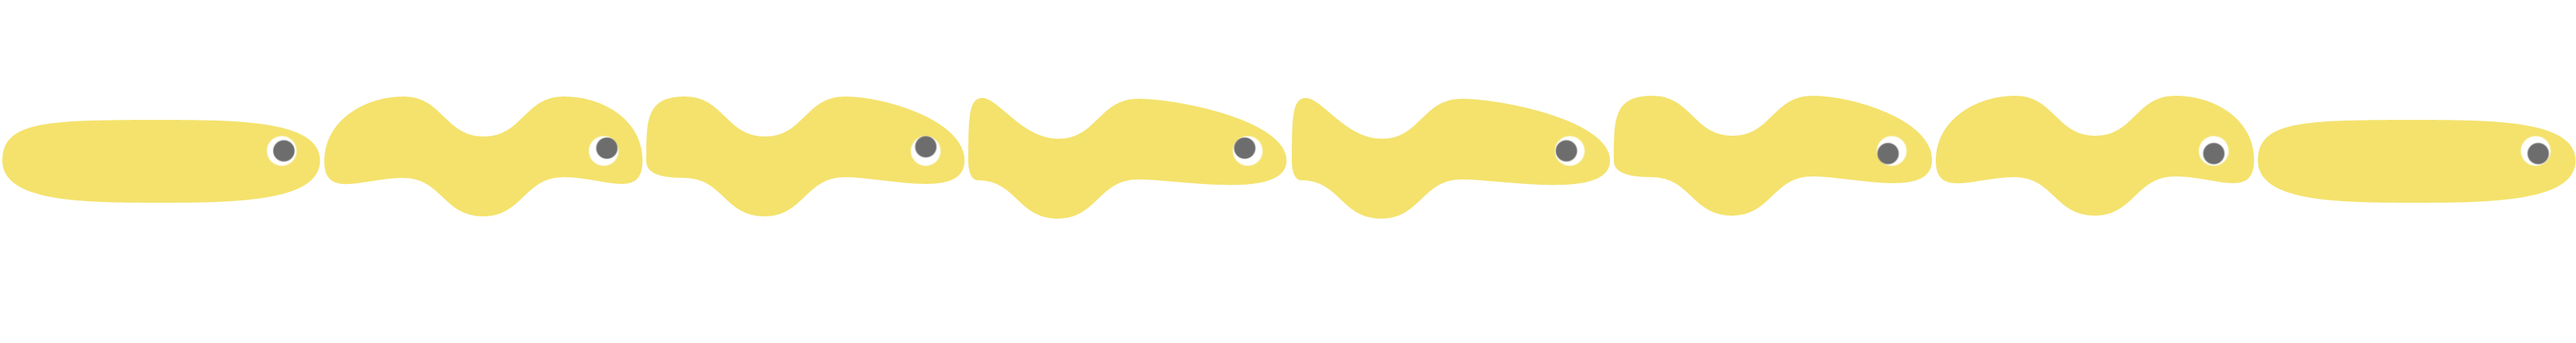
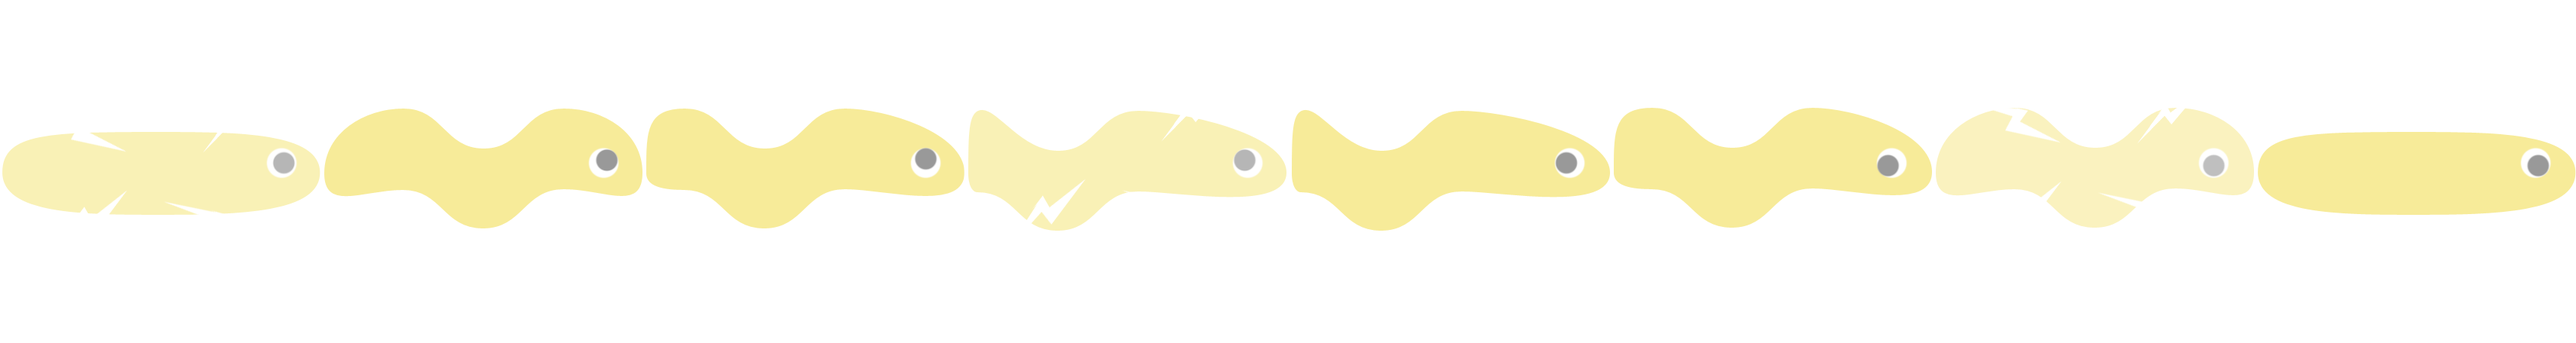
changed squid controls changed electrify sprite sheet

Changed region(s): [[0.0, 0.2769, 1.0, 0.6769]]

diff --git a/main.py b/main.py
@@ -36,8 +36,8 @@ except:
 playZoneWidth = WIDTH - 80
 playZoneHeight = HEIGHT - 180
 playZone = pygame.draw.rect(screen, BLUE, (40, 40, playZoneWidth, playZoneHeight))
-squid = player.Player((playZoneWidth - (426/3) + 80), (playZoneHeight - (455/3) + 80), 426, 455,"Images/SquidWalk.png", "Images/EelWalkUp.png", "Images/EelwalkElectric.png", "Images/EelWalkUpElectric.png")
-eel = player.Player(40, 40, 426, 455,"Images/EelWalk.png", "Images/EelWalkUpSmall.png", "Images/EelWalkElectric.png", "Images/EelWalkUpElectric.png")
+squid = player.Player((playZoneWidth - (426/3) + 80), (playZoneHeight - (455/3) + 80), 426, 455,"Images/SquidWalk.png", "Images/EelWalkUp.png", "Images/EelwalkElectric.png", "Images/EelWalkUpSmallElectric.png")
+eel = player.Player(40, 40, 426, 455,"Images/EelWalk.png", "Images/EelWalkUpSmall.png", "Images/EelWalkElectric.png", "Images/EelWalkUpSmallElectric.png")
 
 wall1 = pygame.draw.rect(screen, GREY, (330, 220, 40, 460))
 wall2 = pygame.draw.rect(screen, GREY, (1550, 220, 40, 460))
@@ -89,7 +89,7 @@ while True:
     if pressed[K_KP0] and punchCooldown == 0:
         punch = True
 
-    if pressed[K_RCTRL] and inkCooldown == 0:
+    if pressed[K_KP_PERIOD] and inkCooldown == 0:
         ink_x = squid.x + squid.width / 2
         ink_y = squid.y + squid.height
         ink = True

diff --git a/player.py b/player.py
@@ -17,6 +17,8 @@ class Player:
         self.imageUp = pygame.transform.scale(self.imageUp, (40 * 8, self.height))
         self.imagesElectric = pygame.image.load(imagePathElectric)
         self.imagesElectric = pygame.transform.scale(self.imagesElectric, (self.width * 8, self.height))
+        self.imagesElectricRight = pygame.image.load(imagePathElectric)
+        self.imagesElectricRight = pygame.transform.scale(self.imagesElectric, (self.width * 8, self.height))
         self.imagesElectricUp = pygame.image.load(imagePathElectricUp)
         self.imagesElectricUp = pygame.transform.scale(self.imagesElectricUp, (40 * 8, self.height))
         self.numImages = 7
